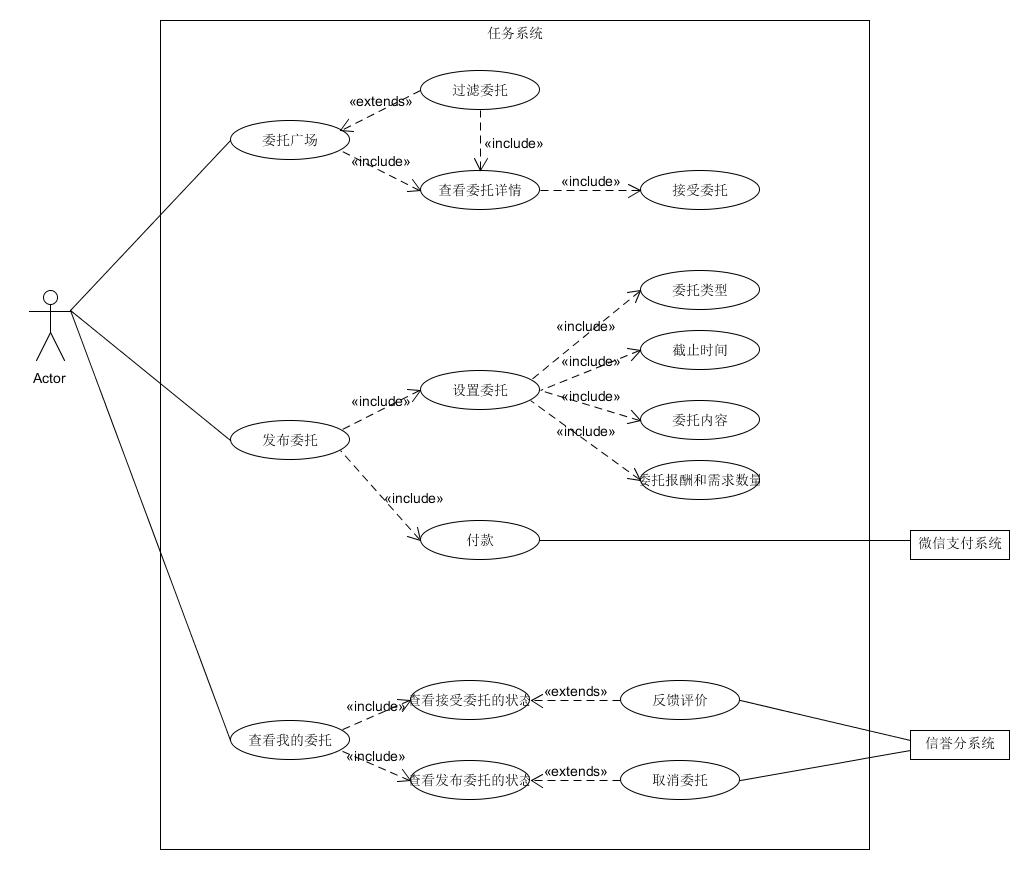
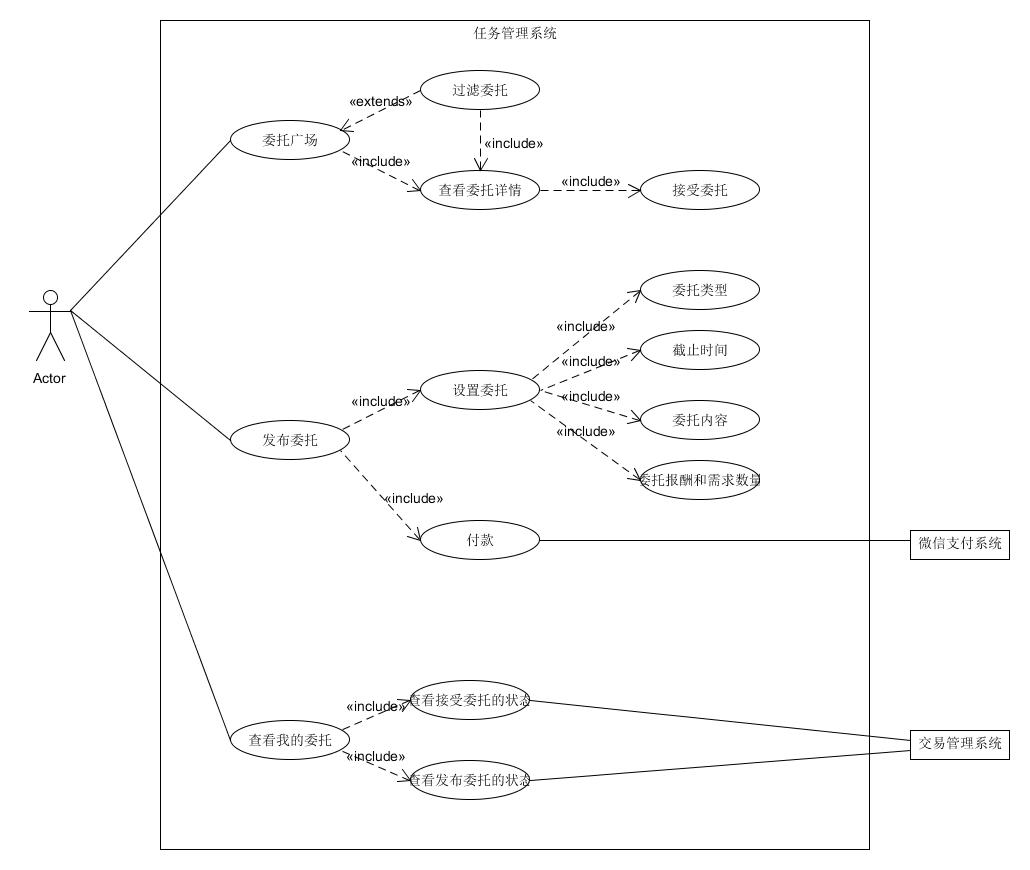
add the usecase of the transaction management

diff --git a/06-01-usecase-diagram.md b/06-01-usecase-diagram.md
@@ -6,3 +6,6 @@
 
   ![](imgs/任务系统.jpg)
 
++ 交易管理系统
+
+  ![](imgs/交易管理系统.jpg)
